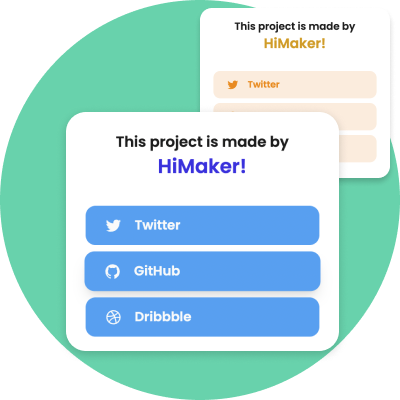
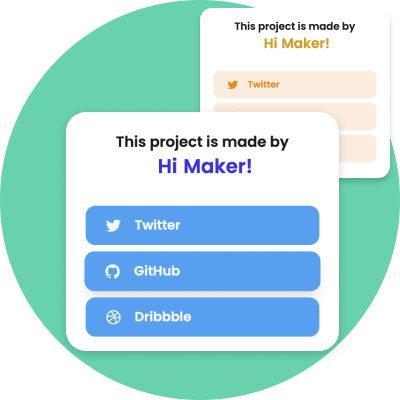
update title to Hi Maker

Changed region(s): [[0.42, 0.39, 0.63, 0.45], [0.69, 0.09, 0.84, 0.12]]

diff --git a/pages/index.vue b/pages/index.vue
@@ -18,7 +18,7 @@ import LogoSuper from "~~/assets/images/logoSuper.svg"
         <img
           class="absolute left-0 top-0 h-12 transition-all transform rotate-0 group-hover:-top-6 group-hover:-left-6 group-hover:-rotate-15"
           :src="Logo"
-          alt="HiMaker logo"
+          alt="Hi Maker logo"
         />
         <Button label="Give it a try" class="!sm:text-xl p-button-secondary"></Button>
       </NuxtLink>
@@ -27,7 +27,7 @@ import LogoSuper from "~~/assets/images/logoSuper.svg"
     <section class="py-16 flex flex-col items-center">
       <h2 class="text-3xl sm:text-4xl font-semibold text-dark-500 flex items-center">
         Features
-        <img class="w-12 ml-4" :src="Logo" alt="HiMaker logo" />
+        <img class="w-12 ml-4" :src="Logo" alt="Hi Maker logo" />
       </h2>
       <div class="flex flex-col-reverse md:flex-row items-center mt-6 md:mt-12">
         <div class="text-center md:text-left">
@@ -68,7 +68,7 @@ import LogoSuper from "~~/assets/images/logoSuper.svg"
 
     <section class="py-16 flex flex-col items-center">
       <h2 class="text-3xl sm:text-4xl font-semibold text-gray-300 flex items-center">
-        <img :src="Logo" alt="HiMaker logo" class="w-12 mr-4" />
+        <img :src="Logo" alt="Hi Maker logo" class="w-12 mr-4" />
         Made for ...
       </h2>
       <LandingSlider></LandingSlider>
@@ -77,7 +77,7 @@ import LogoSuper from "~~/assets/images/logoSuper.svg"
         <img
           class="absolute left-0 top-0 h-12 transition-all transform rotate-0 group-hover:-top-6 group-hover:-left-6 group-hover:-rotate-15"
           :src="Logo"
-          alt="HiMaker logo"
+          alt="Hi Maker logo"
         />
         <Button label="Give it a try" class="!sm:text-xl p-button-secondary"></Button>
       </NuxtLink>
@@ -161,18 +161,18 @@ import LogoSuper from "~~/assets/images/logoSuper.svg"
     >
       <div class="sm:text-lg text-center sm:text-left">
         <h4 class="text-gray-300 text-3xl sm:text-4xl font-semibold">Hi Maker!</h4>
-        <p class="mt-4">I'm Zernonia, the maker of HiMaker!</p>
+        <p class="mt-4">I'm Zernonia, the maker of Hi Maker!</p>
         <br />
         <p>
           There are tons of Linktree/Biolink kind of website that allow people on the internet to follow the you easily,
           but I wanted more than that! I wanted to share my social links, and showcase my project all everywhere. Thus
-          I've created <strong>HiMaker!</strong>
+          I've created <strong>Hi Maker!</strong>
         </p>
         <br />
 
         <p>
-          HiMaker allow <strong>IndieHackers, Developers or Content Creator</strong> like you to easily create their
-          social links, and showcase their project on any website they wanted! HiMaker is aim to increase your
+          Hi Maker allow <strong>IndieHackers, Developers or Content Creator</strong> like you to easily create their
+          social links, and showcase their project on any website they wanted! Hi Maker is aim to increase your
           publicity, your projects' publicity and increase engagement with your audience.
         </p>
         <br />

diff --git a/pages/terms-of-service.vue b/pages/terms-of-service.vue
@@ -5,7 +5,7 @@
     <h1>Terms of Service</h1>
     <p>Last updated: June 29, 2022</p>
     <p>
-      We put together Terms &amp; Conditions for using HiMaker, so you know how we handle legal things when you use our
+      We put together Terms &amp; Conditions for using Hi Maker, so you know how we handle legal things when you use our
       product. When you decide to use our product, website and software, you agree to this Terms of Use Agreement and to
       our Privacy Policy <NuxtLink to="/privacy">https://himaker.io/privacy</NuxtLink>, that will tell you how we handle
       your data.
@@ -15,7 +15,7 @@
       service, feel free to contact us at zernonia@gmail.com. We’re nice people trying to create a good experience for
       everyone.
     </p>
-    <h2>HiMaker Terms of Usage (“Agreement”)</h2>
+    <h2>Hi Maker Terms of Usage (“Agreement”)</h2>
     <p>
       Please read these Terms of Usage (“Agreement”, “Terms of Usage”) carefully before using
       <NuxtLink to="/">https://himaker.io</NuxtLink> (“our site”, “our service”, “our services”) operated by Nifty
@@ -36,7 +36,7 @@
     </p>
     <p>
       You are responsible for any infringement of copyrights, contract rights, intellectual property rights, privacy or
-      publicity rights with any content you create with our service. By using HiMaker you agree that you have explicit
+      publicity rights with any content you create with our service. By using Hi Maker you agree that you have explicit
       permissions to use any content that you upload. We are not responsible for any claims and expenses arising out of
       your violation of this agreement.
     </p>
@@ -73,8 +73,8 @@
     </p>
     <h4>Data Protection</h4>
     <p>
-      With signing up for HiMaker you agree that your personal data (only your e-mail address) will be collected, stored
-      and processed electronically for providing our service (f.ex. for billing and login purposes).
+      With signing up for Hi Maker you agree that your personal data (only your e-mail address) will be collected,
+      stored and processed electronically for providing our service (f.ex. for billing and login purposes).
     </p>
     <p>We may send you information about updates, billing and our service in general via e-mail.</p>
     <p>

diff --git a/components/Widget.vue b/components/Widget.vue
@@ -38,7 +38,7 @@ onMounted(() => (mounted.value = "1"))
         {{ widget.heading.headline !== "" ? widget.heading.headline : "This project is made by" }}
       </h3>
       <h2 :style="`color: ${widget.style.text_primary}`" class="font-semibold text-2xl transition">
-        {{ widget.heading.name !== "" ? widget.heading.name : "hiMaker 👋🏻" }}
+        {{ widget.heading.name !== "" ? widget.heading.name : "Hi Maker 👋🏻" }}
       </h2>
     </section>
 
@@ -115,7 +115,7 @@ onMounted(() => (mounted.value = "1"))
         <img
           class="w-6 h-6 transform -rotate-5 group-hover:-rotate-15 transition mr-4"
           :src="Logo"
-          alt="HiMaker's logo"
+          alt="Hi Maker's logo"
         />
         <h4>
           Powered by
@@ -123,7 +123,7 @@ onMounted(() => (mounted.value = "1"))
             target="_blank"
             class="text-primary hover:text-primary-hover transition font-semibold"
             to="https://himaker.io"
-            >HiMaker</NuxtLink
+            >Hi Maker</NuxtLink
           >
         </h4>
       </div>

diff --git a/pages/dashboard/widget/[id]/index.vue b/pages/dashboard/widget/[id]/index.vue
@@ -30,7 +30,7 @@ const setImage = (ev: string, index: number) => {
 <template>
   <div class="p-6 w-full bg-gray-50 rounded-xl flex flex-col form">
     <label for="title">Button Label</label>
-    <InputText v-model="widget.heading.title" id="title" name="title" placeholder="By hiMaker 👋🏻"></InputText>
+    <InputText v-model="widget.heading.title" id="title" name="title" placeholder="By Hi Maker 👋🏻"></InputText>
 
     <label for="headline">Headline</label>
     <InputText
@@ -41,7 +41,7 @@ const setImage = (ev: string, index: number) => {
     ></InputText>
 
     <label for="maker_name">Name</label>
-    <InputText v-model="widget.heading.name" id="maker_name" name="maker_name" placeholder="hiMaker 👋🏻"></InputText>
+    <InputText v-model="widget.heading.name" id="maker_name" name="maker_name" placeholder="Hi Maker 👋🏻"></InputText>
 
     <h3>Images <span v-if="!isSuperUser" class="text-gray-400 font-normal text-sm ml-2">(Max 3)</span></h3>
     <div class="flex items-center w-full overflow-x-auto">

diff --git a/pages/login.vue b/pages/login.vue
@@ -35,7 +35,7 @@ definePageMeta({
 
 <template>
   <div class="mx-auto mt-20 flex flex-col items-center w-max space-y-3">
-    <img :src="Logo" class="w-44" alt="HiMaker logo" />
+    <img :src="Logo" class="w-44" alt="Hi Maker logo" />
     <h2 class="!-mt-16 text-4xl font-semibold !mb-10">Login</h2>
     <Button :loading="isLoading" class="!mt-16 flex items-center space-x-2 p-button-secondary" @click="login('github')">
       <div class="i-ion-logo-github text-2xl"></div>

diff --git a/components/Header.vue b/components/Header.vue
@@ -36,8 +36,8 @@ const items = ref<MenuItem[]>([
 <template>
   <div class="flex items-center justify-between">
     <NuxtLink :to="user?.id ? '/dashboard' : '/'" class="flex items-center text-2xl sm:text-4xl font-semibold">
-      <img :src="Logo" alt="hiMaker logo" class="w-12 mr-2" />
-      <span>HiMaker</span>
+      <img :src="Logo" alt="hi Maker logo" class="w-12 mr-2" />
+      <span>Hi Maker</span>
     </NuxtLink>
 
     <div v-if="user">

diff --git a/pages/privacy.vue b/pages/privacy.vue
@@ -77,7 +77,7 @@
       </li>
       <li>
         <p>
-          <strong>Website</strong> refers to HiMaker, accessible from
+          <strong>Website</strong> refers to Hi Maker, accessible from
           <a href="https://himaker.io" rel="external nofollow noopener" target="_blank">https://himaker.io</a>
         </p>
       </li>

diff --git a/app.vue b/app.vue
@@ -1,7 +1,7 @@
 <script setup lang="ts">
 useHead({
   title: "Home",
-  titleTemplate: (title) => `${title} | HiMaker 👋🏻 `,
+  titleTemplate: (title) => `${title} | Hi Maker 👋🏻 `,
   viewport: "width=device-width, initial-scale=1, maximum-scale=1",
   charset: "utf-8",
   link: [{ rel: "icon", href: "/logo.svg" }],

diff --git a/components/TriggerButton.vue b/components/TriggerButton.vue
@@ -37,7 +37,7 @@ onMounted(() => {
       </template>
     </div>
     <p class="w-30 text-left truncate">
-      {{ widget.heading.title !== "" ? widget.heading.title : "By hiMaker 👋🏻" }}
+      {{ widget.heading.title !== "" ? widget.heading.title : "By Hi Maker 👋🏻" }}
     </p>
   </button>
 </template>
